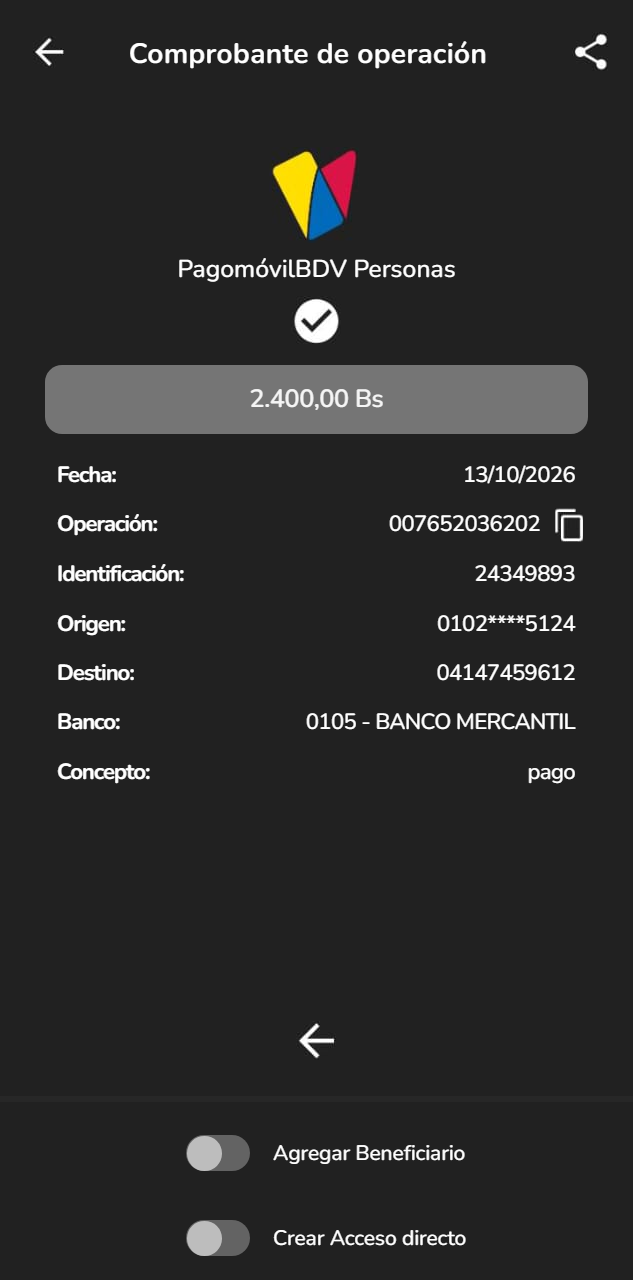
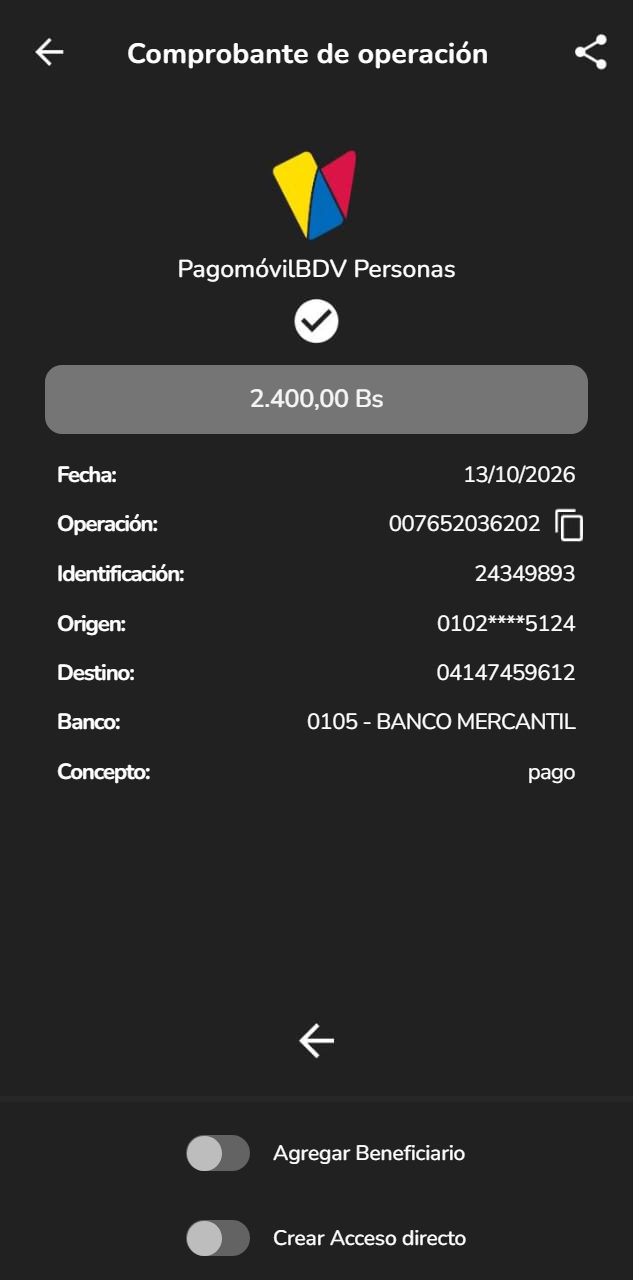
Comprobante: titulo a 700, subtitulo y rotulos de los interruptores a 500 (mas gruesos y marcados, como el mockup)

diff --git a/replica/comprobante.html b/replica/comprobante.html
@@ -33,15 +33,17 @@
      de x126 a x490, margenes 126 y 143: como si el texto llevase espacios de
      mas al final). */
   #cpTitulo{transform:translateZ(0);position:absolute;left:-8.5px;top:40.1px;width:633px;text-align:center;
-            font-size:28px;font-weight:650;letter-spacing:0.45px;color:#FFFFFF;line-height:1;white-space:nowrap;}
+            font-size:28px;font-weight:700;letter-spacing:0.45px;color:#FFFFFF;line-height:1;white-space:nowrap;}
   #cpCompartir{position:absolute;left:572px;top:31px;width:38px;height:40px;}
 
   /* ---- Centro: logo, subtitulo, check y caja del monto ---- */
   #cpLogo{position:absolute;left:269px;top:147px;width:90px;height:96px;}
   /* Subtitulo: interletra medido (probados -0,4 / -0,137 / +0,1 px; el +0,1 es el
      que menos diferencia deja, 10,5 frente a 22,6 y 10,7). */
+  /* Subtitulo: Nunito 500 (antes 400). El mockup es un JPEG y el desenfoque
+     engorda la letra, asi que a 400 se veia mas fina que la referencia. */
   #cpSubtitulo{transform:translateZ(0);position:absolute;left:0;top:257.3px;width:633px;text-align:center;
-               font-size:24.5px;letter-spacing:0.1px;color:#FFFFFF;line-height:1;white-space:nowrap;}
+               font-size:24.5px;font-weight:500;letter-spacing:0.1px;color:#FFFFFF;line-height:1;white-space:nowrap;}
   #cpCheck{position:absolute;left:291px;top:296px;width:50px;height:49px;z-index:2;}
   #cpCaja{position:absolute;left:45px;top:365px;width:543px;height:69px;
           border-radius:17px;background:#757575;}
@@ -75,8 +77,8 @@
      en el movil se notaba. Colores medidos: riel #636363 y bola #BDBDBD. */
   .cpTrack{position:absolute;left:186px;width:64px;height:36px;border-radius:18px;background:#636363;}
   .cpKnob{position:absolute;left:187px;width:34.5px;height:34.5px;border-radius:17.25px;background:#BDBDBD;}
-  .cpEtiquetaInt{transform:translateZ(0);position:absolute;left:273px;font-size:21px;letter-spacing:-0.1px;
-                 color:#FFFFFF;line-height:1;white-space:nowrap;}
+  .cpEtiquetaInt{transform:translateZ(0);position:absolute;left:273px;font-size:21px;font-weight:500;
+                 letter-spacing:-0.1px;color:#FFFFFF;line-height:1;white-space:nowrap;}
 </style>
 </head>
 <body>

diff --git a/replica/vista-previa-comprobante.html b/replica/vista-previa-comprobante.html
@@ -33,15 +33,17 @@
      de x126 a x490, margenes 126 y 143: como si el texto llevase espacios de
      mas al final). */
   #cpTitulo{transform:translateZ(0);position:absolute;left:-8.5px;top:40.1px;width:633px;text-align:center;
-            font-size:28px;font-weight:650;letter-spacing:0.45px;color:#FFFFFF;line-height:1;white-space:nowrap;}
+            font-size:28px;font-weight:700;letter-spacing:0.45px;color:#FFFFFF;line-height:1;white-space:nowrap;}
   #cpCompartir{position:absolute;left:572px;top:31px;width:38px;height:40px;}
 
   /* ---- Centro: logo, subtitulo, check y caja del monto ---- */
   #cpLogo{position:absolute;left:269px;top:147px;width:90px;height:96px;}
   /* Subtitulo: interletra medido (probados -0,4 / -0,137 / +0,1 px; el +0,1 es el
      que menos diferencia deja, 10,5 frente a 22,6 y 10,7). */
+  /* Subtitulo: Nunito 500 (antes 400). El mockup es un JPEG y el desenfoque
+     engorda la letra, asi que a 400 se veia mas fina que la referencia. */
   #cpSubtitulo{transform:translateZ(0);position:absolute;left:0;top:257.3px;width:633px;text-align:center;
-               font-size:24.5px;letter-spacing:0.1px;color:#FFFFFF;line-height:1;white-space:nowrap;}
+               font-size:24.5px;font-weight:500;letter-spacing:0.1px;color:#FFFFFF;line-height:1;white-space:nowrap;}
   #cpCheck{position:absolute;left:291px;top:296px;width:50px;height:49px;z-index:2;}
   #cpCaja{position:absolute;left:45px;top:365px;width:543px;height:69px;
           border-radius:17px;background:#757575;}
@@ -75,8 +77,8 @@
      en el movil se notaba. Colores medidos: riel #636363 y bola #BDBDBD. */
   .cpTrack{position:absolute;left:186px;width:64px;height:36px;border-radius:18px;background:#636363;}
   .cpKnob{position:absolute;left:187px;width:34.5px;height:34.5px;border-radius:17.25px;background:#BDBDBD;}
-  .cpEtiquetaInt{transform:translateZ(0);position:absolute;left:273px;font-size:21px;letter-spacing:-0.1px;
-                 color:#FFFFFF;line-height:1;white-space:nowrap;}
+  .cpEtiquetaInt{transform:translateZ(0);position:absolute;left:273px;font-size:21px;font-weight:500;
+                 letter-spacing:-0.1px;color:#FFFFFF;line-height:1;white-space:nowrap;}
 </style>
 </head>
 <body>

diff --git a/README.md b/README.md
@@ -13,7 +13,7 @@ nube con GitHub Actions).
 | 5 | Panel de Pagos | `referencia-pagos.jpeg` | `replica/pagos.html` | **5,72** (panel) |
 | 6 | PagomóvilBDV | `referencia-pagomovil.jpeg` | `replica/pagomovil.html` | 2,73 |
 | 7 | Selección de banco | `referencia-bancos.jpeg` | `replica/bancos.html` | **4,78** |
-| 8 | Comprobante de operación | `referencia-comprobante.jpeg` | `replica/comprobante.html` | **3,51** |
+| 8 | Comprobante de operación | `referencia-comprobante.jpeg` | `replica/comprobante.html` | **3,76** |
 
 El flujo completo se puede recorrer sin compilar: abre
 `replica/vista-previa-flujo.html` (autocontenido, sirve para el móvil).
@@ -549,10 +549,10 @@ y el monto en formato venezolano (`2400` → **`2.400,00 Bs`**).
 | Bloque | Medida (px del mockup) | dp | Comprobación |
 |---|---|---|---|
 | Flecha atrás | 32 × 32 en (33, 36) | 18,2 | **diff 0,18** |
-| Título (**Nunito 650**) | mayúscula 40 → 68 · 356 px de ancho | 16sp | **diff 22,3** |
+| Título (**Nunito 700**) | mayúscula 40 → 68 · 356 px de ancho | 16sp | **diff 22,7** |
 | Compartir | 38 × 40 en (572, 31) | 21,6 × 22,7 | **diff 0,05** |
 | Logotipo | 85 × 90 en (272, 150) | 51,2 × 54,6 | **diff 0,30** |
-| «PagomóvilBDV Personas» | mayúscula 258 → 282 | 14sp | **diff 11,9** |
+| «PagomóvilBDV Personas» | mayúscula 258 → 282 | 14sp | **diff 18,5** |
 | Círculo con el check | 45 × 44 en (294, 299) | 28,4 × 27,9 | **diff 0,13** |
 | Caja del monto | 543 × 69 en (45, **365**) · radio 17 | 308,8 × 39,2 · 9,7 | **diff 1,74** |
 | Monto «2.400,00 Bs» | mayúscula 389 → 410 · 132 px de ancho · `#F5F5F5` | 14,2sp | **diff 5,9** |
@@ -562,7 +562,7 @@ y el monto en formato venezolano (`2400` → **`2.400,00 Bs`**).
 | Separador | 6 px en y 1096 · `#272727` | 3,4 | diff 2,67 |
 | Interruptores | 63 × 35 · bola 32 `#BDBDBD` | 35,8 × 19,9 · 18,2 | **diff 9,3** |
 
-**Diff global: 3,51 / 255 · 2,81 % de píxeles con desviación > 32** (con Arimo era
+**Diff global: 3,76 / 255 · 2,92 % de píxeles con desviación > 32** (con Arimo era
 4,78; el cambio a Nunito baja un 27 %).
 
 Detalles que solo se ven midiendo:

diff --git a/design/ESPECIFICACIONES.md b/design/ESPECIFICACIONES.md
@@ -565,24 +565,24 @@ ajustó cada texto midiendo su tinta contra el mockup.
 
 | Texto | Tamaño | Peso | Interletra | Tinta en el mockup | Tinta en la réplica | Trazo |
 |---|---|---|---|---|---|---|
-| «Comprobante de operación» | 28 px | 650 | +0,45 px | x 128..487 · y 41..67 | x 128..487 · y 41..67 | 4,66 / 4,57 |
-| «PagomóvilBDV Personas» | 24,5 px | 400 | +0,1 px | x 182..451 · y 258..305 | x 180..453 · y 258..305 | 3,45 / 3,25 |
+| «Comprobante de operación» | 28 px | 700 | +0,45 px | x 128..487 · y 41..67 | x 128..487 · y 41..67 | 4,66 / 4,57 |
+| «PagomóvilBDV Personas» | 24,5 px | 500 | +0,1 px | x 182..451 · y 258..305 | x 180..453 · y 258..305 | 3,45 / 3,25 |
 | «2.400,00 Bs» | 25 px | 600 | −0,35 px | x 251..382 · y 389..409 | x 251..382 · y 389..409 | 3,93 / 4,52 |
 | Etiquetas («Fecha:»…) | 22 px | 700 | −1 px | 56×15 px | 57×16 px | 2,81 / 4,40 |
 | Valores («13/10/2026»…) | 22 px | 400 | −0,6 px | 107×15 px | 109×17 px | 1,58 / 2,77 |
-| Interruptores del pie | 21 px | 400 | −0,1 px | 190×20 px | 189×19 px | 2,69 / 2,53 |
+| Interruptores del pie | 21 px | 500 | −0,1 px | 190×20 px | 189×19 px | 2,69 / 2,53 |
 
 Diferencias por zona al pasar de Arimo a Nunito (sobre 255, menos es mejor):
 
 | Zona | Arimo | Nunito |
 |---|---|---|
 | Monto | 13,41 | **5,90** |
-| Título | 30,99 | **22,33** |
-| Subtítulo | 40,90 | **11,89** |
-| Texto del interruptor 1 | 21,02 | **9,41** |
-| Texto del interruptor 2 | 30,57 | **12,69** |
-| **Media de los 12 textos** | 18,92 | **11,54** |
-| **Diff global de la pantalla** | 4,78 | **3,51** (2,81 % de píxeles) |
+| Título | 30,99 | **22,65** |
+| Subtítulo | 40,90 | **18,46** |
+| Texto del interruptor 1 | 21,02 | **16,49** |
+| Texto del interruptor 2 | 30,57 | **20,30** |
+| **Media de los 12 textos** | 18,92 | **13,34** |
+| **Diff global de la pantalla** | 4,78 | **3,76** (2,92 % de píxeles) |
 
 ### 14.2 Trampa nueva: el título del mockup NO está centrado
 
